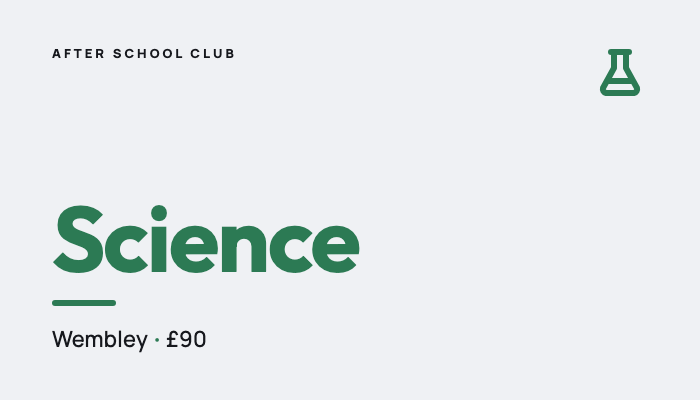
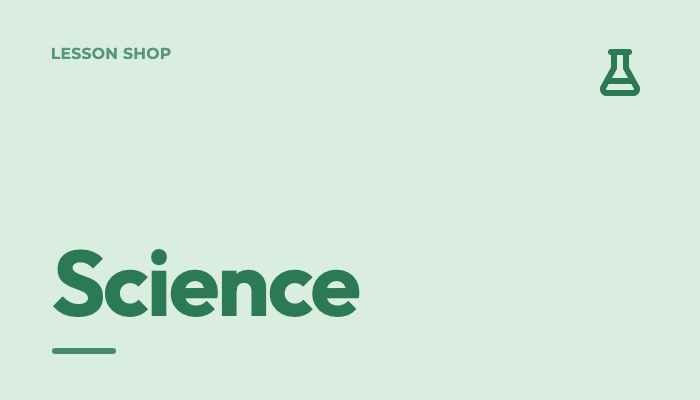
add more images and subjects

Changed region(s): [[0.06, 0.51, 0.54, 0.9], [0.06, 0.12, 0.33, 0.15]]

diff --git a/index.html b/index.html
@@ -4,7 +4,7 @@
 <head>
     <meta charset="UTF-8">
     <meta name="viewport" content="width=device-width, initial-scale=1.0">
-    <title>After School Lessons</title>
+    <title>Lesson Shop</title>
     <script src="https://unpkg.com/vue@3/dist/vue.global.js"></script>
     <style>
         body {
@@ -72,13 +72,20 @@
         createApp({
             data() {
                 return {
-                    pageTitle: "After School Lessons",
+                    pageTitle: "Lesson Shop",
                     lessons: [
                         { id: 1, subject: "Maths", location: "Hendon", price: 100, image: "images/maths.png", imageAlt: "Maths lesson" },
                         { id: 2, subject: "English", location: "Westminster", price: 80, image: "images/english.png", imageAlt: "English lesson" },
                         { id: 3, subject: "Science", location: "Wembley", price: 90, image: "images/science.png", imageAlt: "Science lesson" },
                         { id: 4, subject: "Art", location: "Stratford", price: 95, image: "images/art.png", imageAlt: "Art lesson" },
-                        { id: 5, subject: "Music", location: "Knightsbridge", price: 120, image: "images/music.png", imageAlt: "Music lesson" }
+                        { id: 5, subject: "Music", location: "Knightsbridge", price: 120, image: "images/music.png", imageAlt: "Music lesson" },
+                        { id: 6, subject: "Drama", location: "Camden", price: 85, image: "images/drama.png", imageAlt: "Drama lesson" },
+                        { id: 7, subject: "French", location: "Shoreditch", price: 110, image: "images/french.png", imageAlt: "French lesson" },
+                        { id: 8, subject: "Computing", location: "Islington", price: 105, image: "images/computing.png", imageAlt: "Computing lesson" },
+                        { id: 9, subject: "History", location: "Greenwich", price: 75, image: "images/history.png", imageAlt: "History lesson" },
+                        { id: 10, subject: "Geography", location: "Clapham", price: 90, image: "images/geography.png", imageAlt: "Geography lesson" },
+                        { id: 11, subject: "Sports", location: "Brixton", price: 70, image: "images/sports.png", imageAlt: "Sports lesson" },
+                        { id: 12, subject: "Cooking", location: "Hackney", price: 115, image: "images/cooking.png", imageAlt: "Cooking lesson" }
                     ]
                 }
             }
